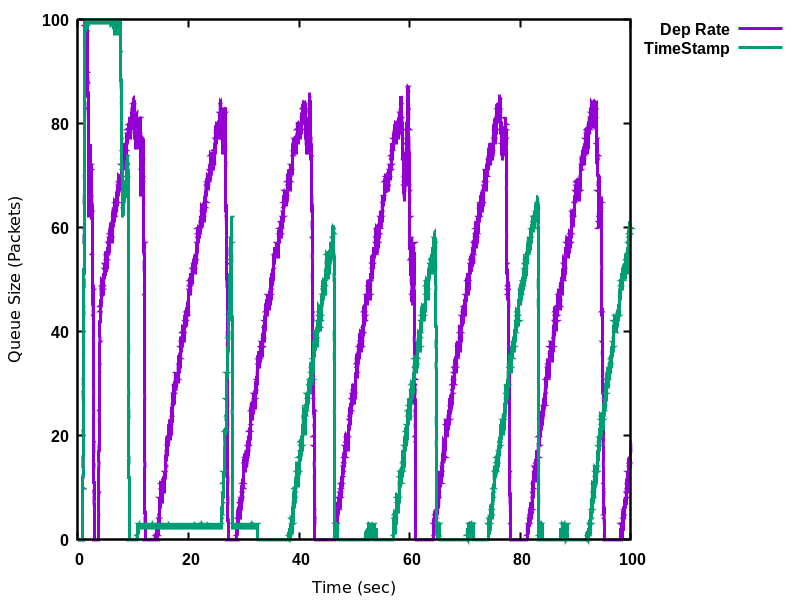
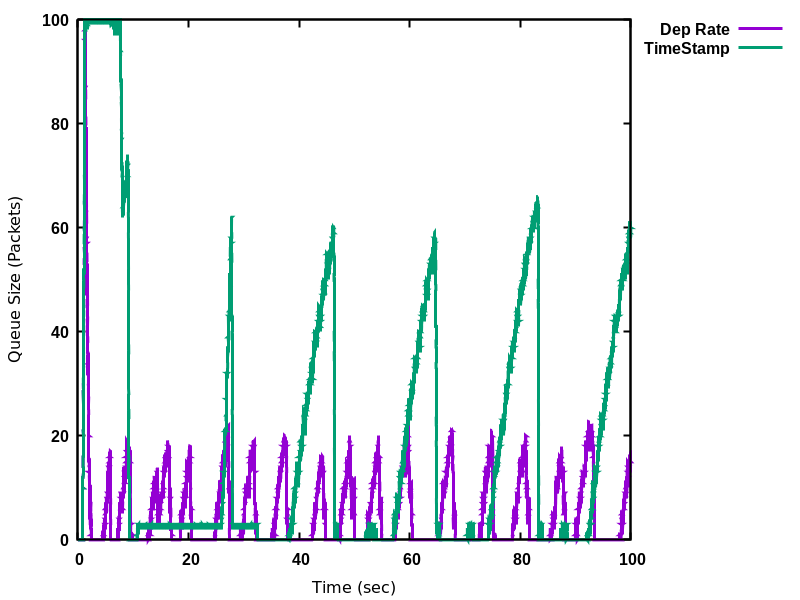
Updated

diff --git a/test-cases/pie-example-1.cc b/test-cases/pie-example-1.cc
@@ -23,6 +23,8 @@ uint32_t checkTimes;
 double avgQueueDiscSize;
 std::stringstream filePlotQueueDisc;
 std::stringstream filePlotQueueDiscAvg;
+std::stringstream filePlotQueueDiscThr;
+
 
 void
 CheckQueueSize (Ptr<QueueDisc> queue)
@@ -54,6 +56,30 @@ CheckQueueSize (Ptr<QueueDisc> queue)
   fPlotQueue2.close ();
 }
 
+void
+CheckThroughPut (Ptr<QueueDisc> queue)
+{
+  std::string ext = "_UseTsp";
+  if(!useTsp)
+    ext = "";
+
+  double now = Simulator::Now ().GetSeconds ();
+  double sentBytes = queue->GetStats().nTotalDequeuedBytes - 
+              (queue->GetStats().nTotalRequeuedBytes + queue->GetStats().nTotalDroppedBytesAfterDequeue);
+
+  double thp = ((((sentBytes*8)/1000000)/now)/5)*100; // 5 because bottelenect bandwidth is 5Mbps
+  // check queue size every 1/100 of a second
+  Simulator::Schedule (Seconds (0.1), &CheckThroughPut, queue);
+
+  filePlotQueueDiscThr << dir + "throughput"+ext+".plotme";
+
+  remove (filePlotQueueDiscThr.str ().c_str ());
+
+  std::ofstream fPlotQueue3 (std::stringstream (dir + "throughput"+ext+".plotme").str ().c_str (), std::ios::out | std::ios::app);
+  fPlotQueue3 << now << " " << thp << std::endl;
+  fPlotQueue3.close ();
+}
+
 void InstallPacketSink (Ptr<Node> node, uint16_t port)
 {
   PacketSinkHelper sink ("ns3::TcpSocketFactory",
@@ -82,10 +108,12 @@ int main (int argc, char *argv[])
   std::string queue_disc_type = "PieQueueDisc";
   uint32_t dataSize = 1446;
   uint32_t delAckCount = 2;
+  bool flowMonitor=false;
 
 
   CommandLine cmd;
   cmd.AddValue ("useTsp", "Use TimeStamp", useTsp);
+  cmd.AddValue ("flowMonitor", "Use flowMonitor", flowMonitor);
   cmd.Parse (argc,argv);
 
   uv->SetStream (stream);
@@ -177,7 +205,7 @@ int main (int argc, char *argv[])
   Config::SetDefault ("ns3::PieQueueDisc::MaxSize", StringValue ("100p"));
   Config::SetDefault ("ns3::PieQueueDisc::MeanPktSize", UintegerValue (meanPktSize));
   Config::SetDefault ("ns3::PieQueueDisc::DequeueThreshold", UintegerValue (10000));
-  Config::SetDefault ("ns3::PieQueueDisc::QueueDelayReference", TimeValue (Seconds (0.2)));
+  Config::SetDefault ("ns3::PieQueueDisc::QueueDelayReference", TimeValue (Seconds (0.02)));
   Config::SetDefault ("ns3::PieQueueDisc::MaxBurstAllowance", TimeValue (Seconds (0.1)));
   Config::SetDefault ("ns3::PieQueueDisc::UseTimeStamp", UintegerValue (useTsp));
 
@@ -189,6 +217,14 @@ int main (int argc, char *argv[])
   tch.Uninstall (routers.Get (0)->GetDevice (0));
   qd.Add (tch.Install (routers.Get (0)->GetDevice (0)).Get (0));
   Simulator::ScheduleNow (&CheckQueueSize, qd.Get (0));
+  Simulator::ScheduleNow (&CheckThroughPut, qd.Get (0));
+
+  Ptr<FlowMonitor> FlowMonitor;
+  FlowMonitorHelper flowHelper;
+  if(flowMonitor)
+  {
+  FlowMonitor = flowHelper.InstallAll();
+  }
 
   uint16_t port = 50000;
   InstallPacketSink (rightNodes.Get (0), port);      // A Sink 0 Applications
@@ -207,6 +243,14 @@ int main (int argc, char *argv[])
 
   Simulator::Stop (Seconds (stopTime));
   Simulator::Run ();
+
+  if(flowMonitor)
+  {
+    std::string ext = "_UseTsp";
+    if(!useTsp)
+      ext = "";
+  FlowMonitor->SerializeToXmlFile(dir + "flowMonitor"+ext+".xml", true, true);
+  }
 
   std::cout << qd.Get (0)->GetStats();
 
